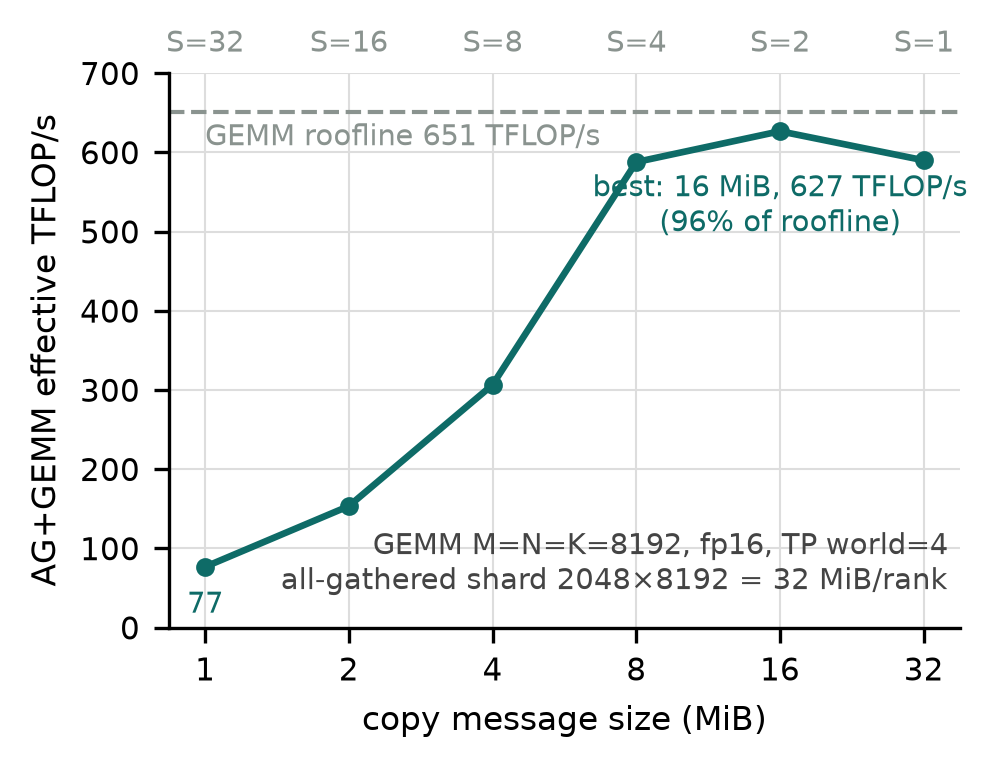
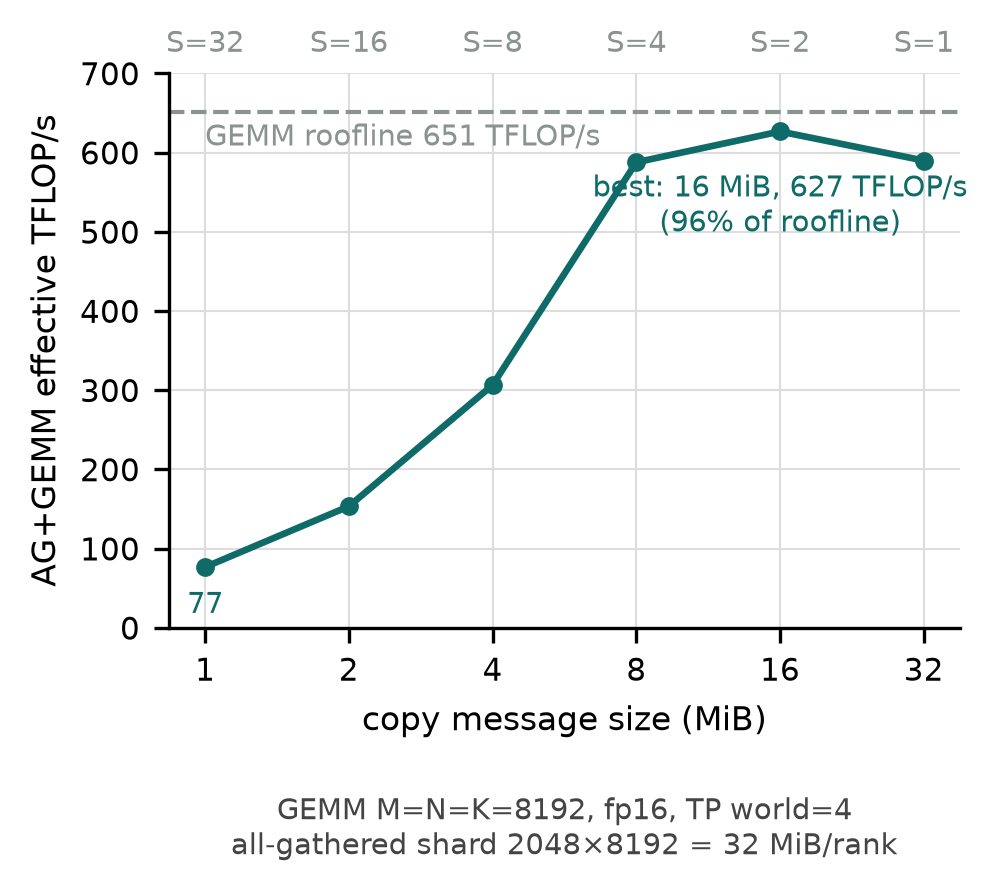
reports: move exp2 paper-figure shape note below the plot

diff --git a/reports/benchmark_4xH800_20260812/plot_exp2_paper.py b/reports/benchmark_4xH800_20260812/plot_exp2_paper.py
@@ -90,11 +90,11 @@ def main():
     top.tick_params(labelsize=7, colors=GREY, length=0)
     top.spines["top"].set_visible(False)
 
-    # shape annotation (requested: keep N, K visible)
-    ax.text(0.985, 0.05,
+    # shape annotation, below the plot area (keeps N, K visible)
+    ax.text(0.5, -0.30,
             "GEMM M=N=K=8192, fp16, TP world=4\n"
             "all-gathered shard 2048$\\times$8192 = 32 MiB/rank",
-            transform=ax.transAxes, ha="right", va="bottom", fontsize=7,
+            transform=ax.transAxes, ha="center", va="top", fontsize=7,
             color="#444444")
 
     os.makedirs(OUT, exist_ok=True)
